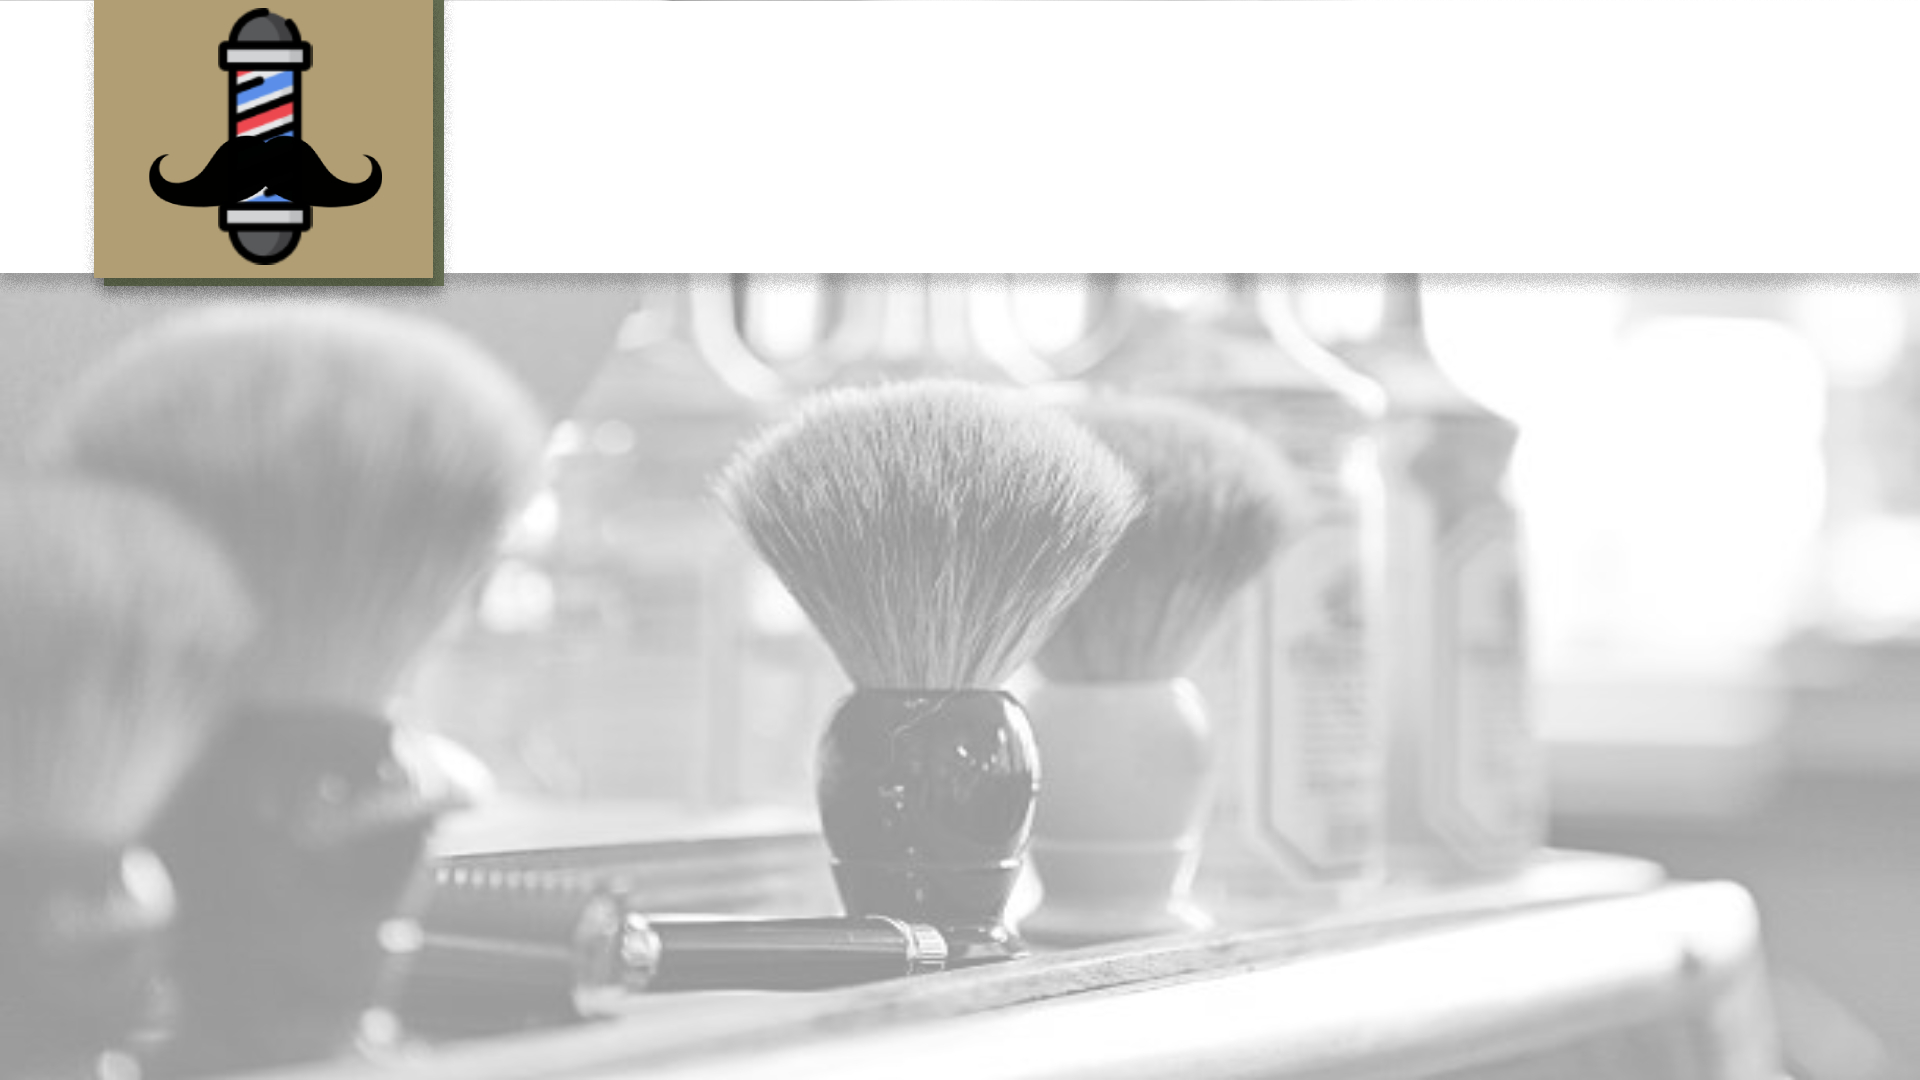
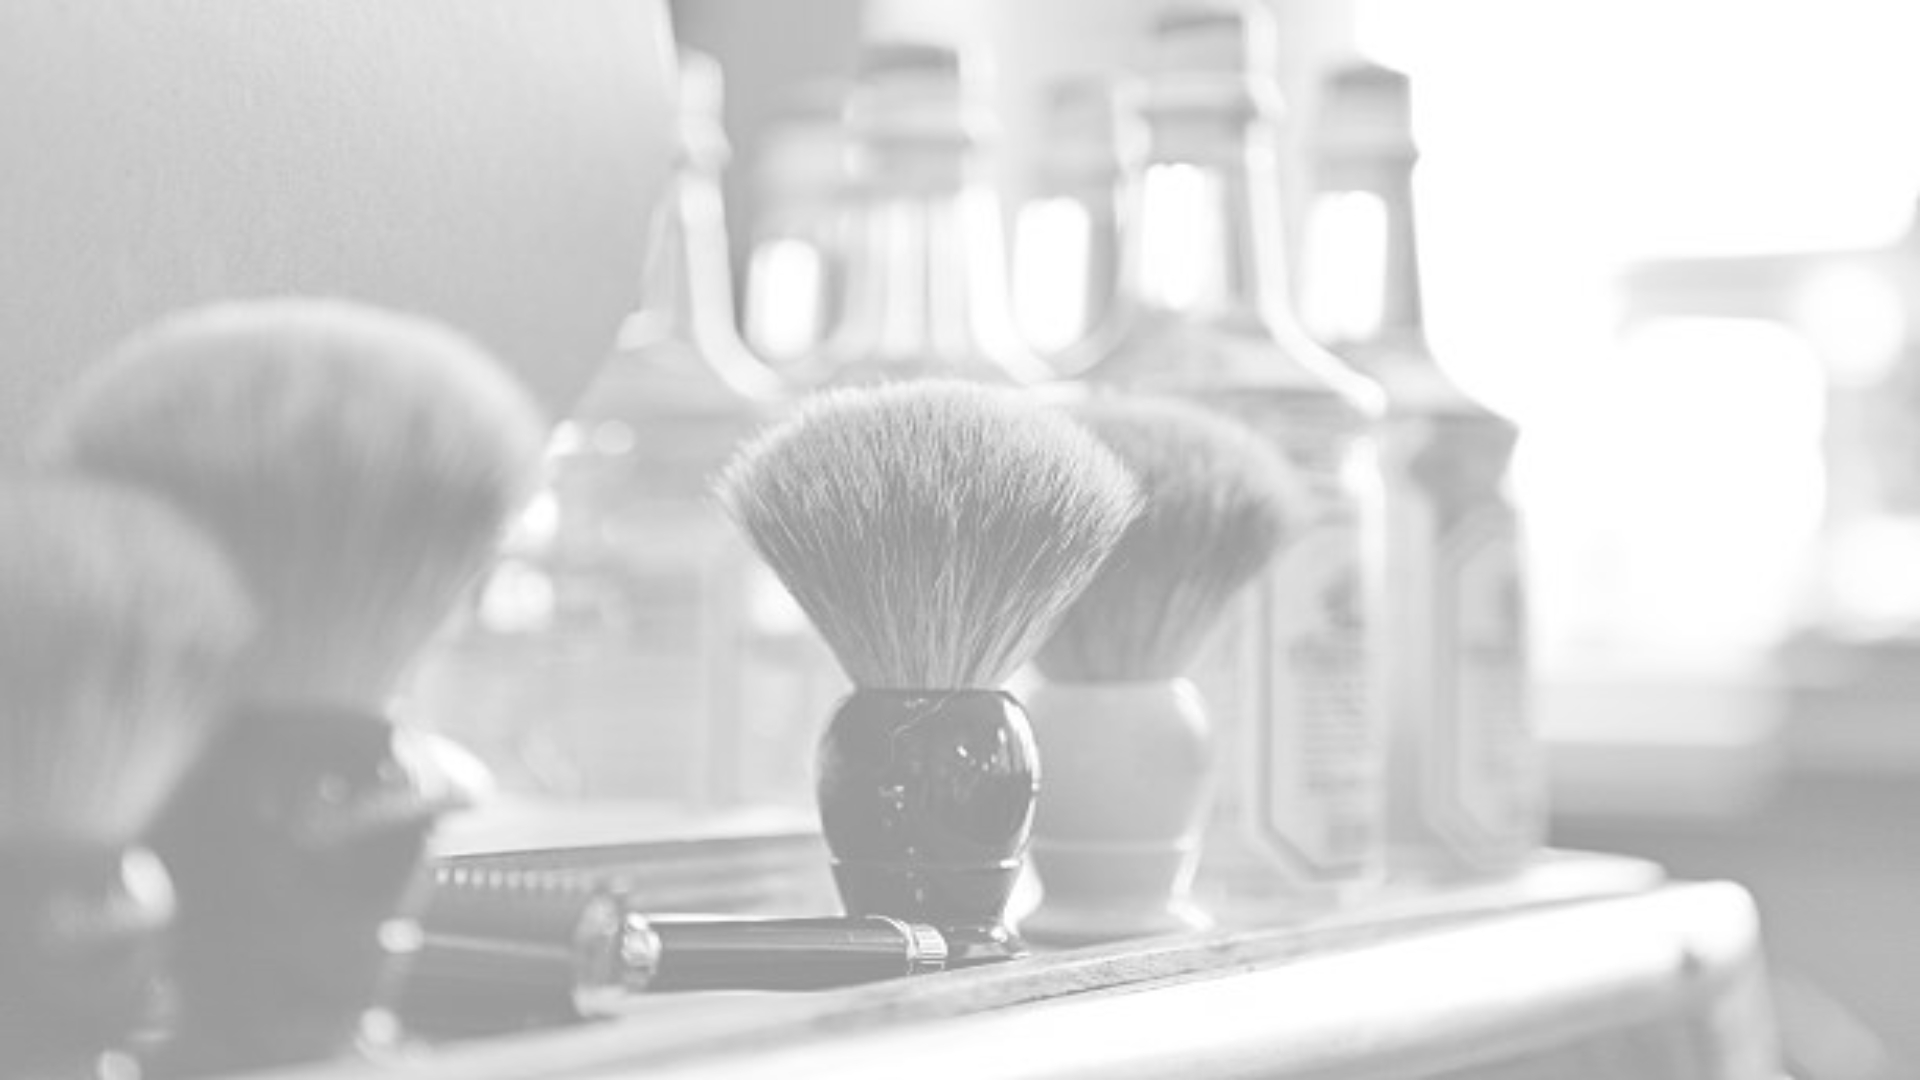
index / css / backgroung update

Changed region(s): [[0.0, 0.0, 1.0, 0.275]]

diff --git a/views/index.html b/views/index.html
@@ -22,7 +22,7 @@
         <nav class="navbar navbar-expand-lg navbar-dark bg-dark">
             <div class="container">
                 <img src="img/barber-icon.png" style="width:6%">                               
-                <a class="navbar-brand" href="#">Eric Hair's</a>
+                <a class="navbar-brand" href="#">Eric Hair's Barber</a>
                 <button class="navbar-toggler" type="button" data-bs-toggle="collapse" data-bs-target="#navbarSupportedContent" aria-controls="navbarSupportedContent" aria-expanded="false" aria-label="Toggle navigation"><span class="navbar-toggler-icon"></span></button>
                 <div class="collapse navbar-collapse" id="navbarSupportedContent">
                     <ul class="navbar-nav ms-auto mb-2 mb-lg-0">
@@ -36,27 +36,35 @@
         <div class="container">
             <div class="row">
                 <div class="text-center mt-5">
-                     
+                    <style>
+                        body {
+                          background-image: url('img/barber\ background.jpg');
+                          background-size: 135%;
+                        }
+                        </style>                    
                     <p><h1>Welcome to Eric Hair's Barber</h1></p>                    
-                    <p class="lead">Select your service from the menu below</p>
+                    <p class="lead">Add or Delete services from the menu below</p>
                 </div>
                 <div id="results" class="col-lg-8 mb-5 order-2"></div>
                 <div id="menu" class="col-lg-4 mb-5 order-1">
                     <form enctype="application/json" action="/post/json" method="post">
                         <div class="form-group">
-                            <select class="form-control" name="sec_n">
+                            <p class="text-muted text-center">To add a new entree first select from the categories below:</p> 
+                            <select class="form-control" name="sec_n">                                                                
                                 <option value="0">Haircut</option>
                                 <option value="1">Beard</option>
-                                <option value="2">Hair Colouring</option>                              
+                                <option value="2">Hair Colouring</option>                                                         
                             </select>
+                            <p class="text-muted text-center">Type the description of the new item:</p>                                                      
                             <input class="form-control mt-3" type="text" name="item" placeholder="Item">
-                            <input class="form-control mt-3" type="text" name="price" placeholder="Price">
-                            <div class="d-grid gap-2"><button type="submit" class="btn btn-primary btn-block mt-3">Submit</button></div>
+                            <p class="text-muted text-center">Type the price of the new item:</p>
+                            <input class="form-control mt-3" type="text" name="price" placeholder="Price">                            
+                            <div class="d-grid gap-2"><button type="submit" class="btn btn-primary btn-block mt-3">Add</button></div>
                         </div>
                     </form>
                     <div class="d-grid gap-2">
                     <button id="delete" class="btn btn-danger btn-block mt-3">Delete</button></div>
-                    <p class="text-muted text-center">To delete an entree, click the required row first</p>
+                    <p class="text-muted text-center">To delete an entree, simply select and click delete.</p>
                 </div>
             </div>
         </div>

diff --git a/views/css/EricHair.css b/views/css/EricHair.css
@@ -21,7 +21,7 @@ background-color: #f5f5f5;
 }
 
 table, th, td {
-    border-collapse: collapse;
+    border-collapse: separate;
     border: 1px solid black;
     text-align: center;
 }
@@ -32,7 +32,7 @@ table {
 }
 
 td, th {
-    border: 1px solid #ced4da;
+    border: 5px solid #000000;
     padding: 0.5rem;
     text-align: left;
 }
